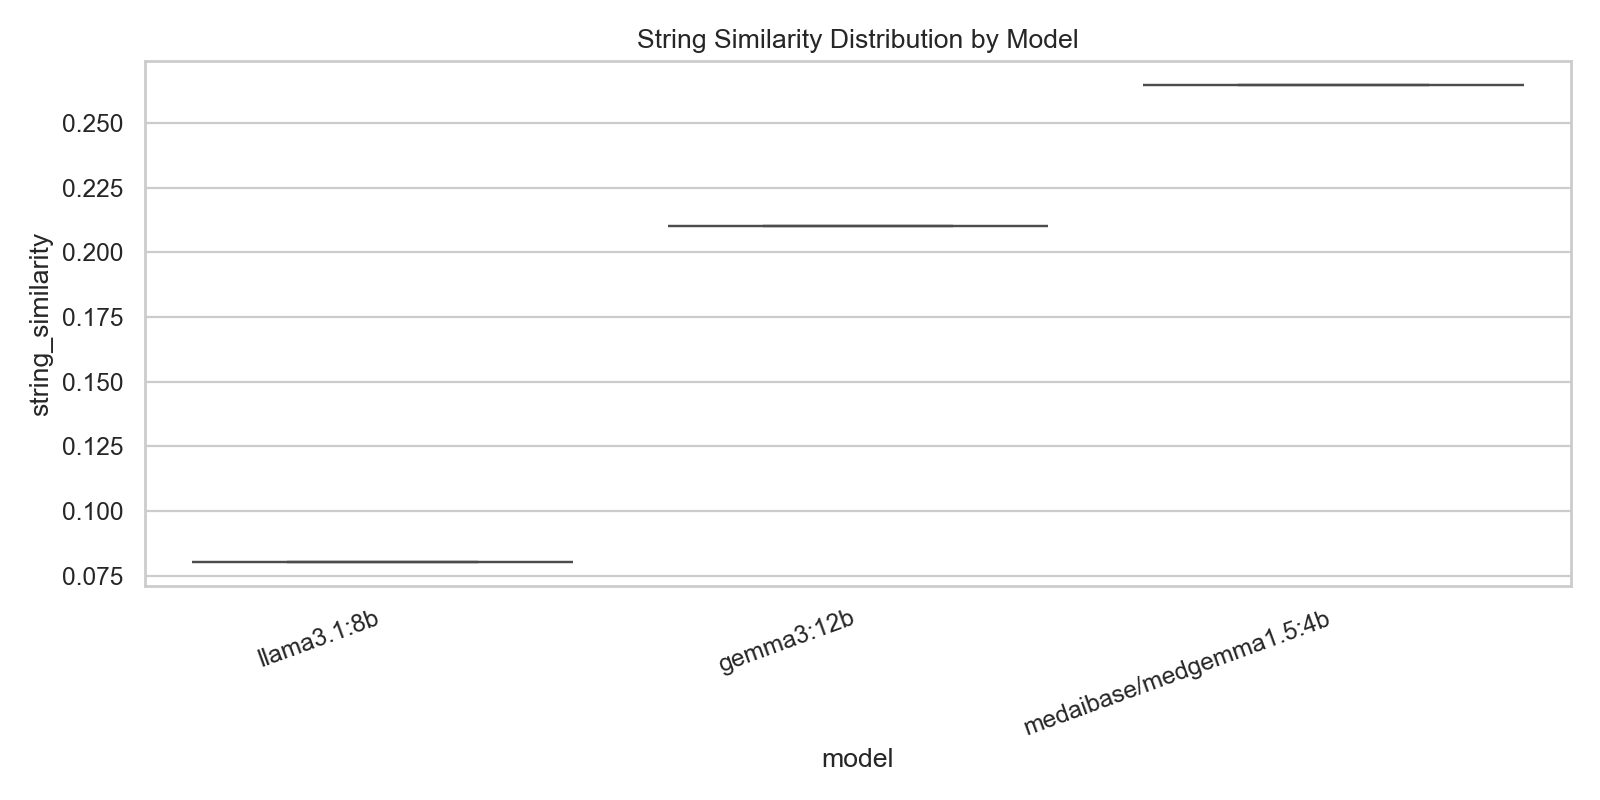
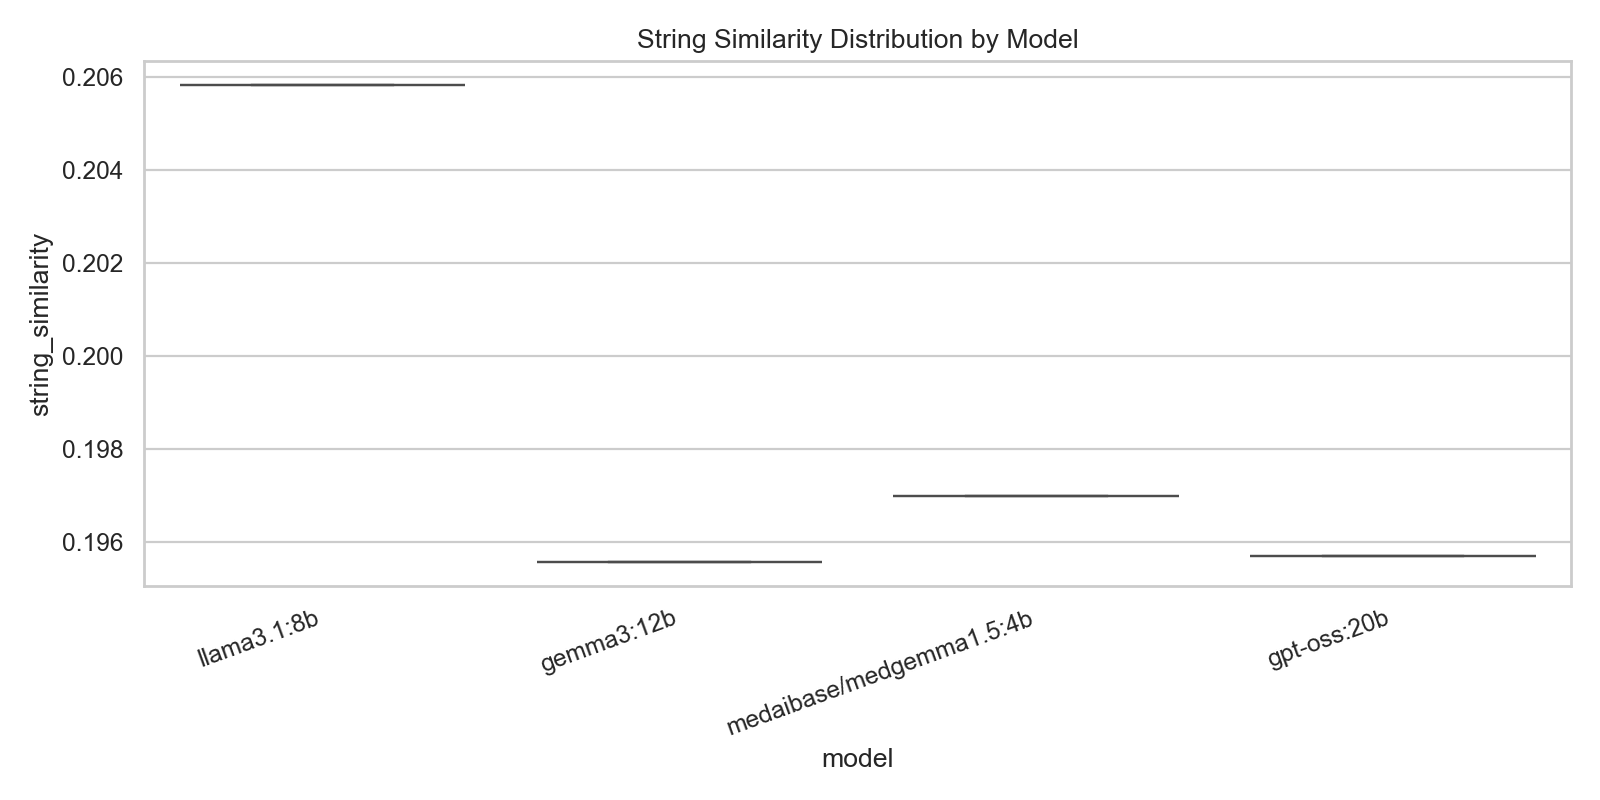
add bleu, rough and bertscore

diff --git a/src/clinical_eval_pipeline/scoring/deterministic.py b/src/clinical_eval_pipeline/scoring/deterministic.py
@@ -40,7 +40,53 @@ def token_f1(prediction: str, gold: str) -> float:
     return (2 * precision * recall) / (precision + recall)
 
 
-def score_deterministic(df: pd.DataFrame) -> pd.DataFrame:
+def _bleu_score(normalized_pred: str, normalized_gold: str) -> float:
+    from nltk.translate.bleu_score import SmoothingFunction, sentence_bleu
+
+    pred_tokens = normalized_pred.split()
+    gold_tokens = normalized_gold.split()
+    if not pred_tokens or not gold_tokens:
+        return 0.0
+    smoother = SmoothingFunction().method1
+    return float(sentence_bleu([gold_tokens], pred_tokens, smoothing_function=smoother))
+
+
+def _rouge_l_f1(normalized_pred: str, normalized_gold: str) -> float:
+    from rouge_score import rouge_scorer
+
+    scorer = rouge_scorer.RougeScorer(["rougeL"], use_stemmer=False)
+    score = scorer.score(normalized_gold, normalized_pred)["rougeL"]
+    return float(score.fmeasure)
+
+
+def _bert_scores(
+    predictions: list[str],
+    references: list[str],
+    model_type: str,
+    batch_size: int,
+) -> tuple[list[float], list[float], list[float]]:
+    from bert_score import score as bertscore_score
+
+    p_tensor, r_tensor, f1_tensor = bertscore_score(
+        predictions,
+        references,
+        model_type=model_type,
+        lang="en",
+        verbose=False,
+        batch_size=batch_size,
+    )
+    return (
+        [float(x) for x in p_tensor.tolist()],
+        [float(x) for x in r_tensor.tolist()],
+        [float(x) for x in f1_tensor.tolist()],
+    )
+
+
+def score_deterministic(
+    df: pd.DataFrame,
+    bertscore_model: str = "roberta-base",
+    bertscore_batch_size: int = 8,
+) -> pd.DataFrame:
     out = df.copy()
     out["normalized_response"] = out["response_text"].astype(str).map(normalize_text)
     out["normalized_gold"] = out["gold_answer"].astype(str).map(normalize_text)
@@ -54,4 +100,22 @@ def score_deterministic(df: pd.DataFrame) -> pd.DataFrame:
         SequenceMatcher(None, pred, gold).ratio()
         for pred, gold in zip(out["normalized_response"], out["normalized_gold"], strict=True)
     ]
+    out["bleu"] = [
+        _bleu_score(pred, gold)
+        for pred, gold in zip(out["normalized_response"], out["normalized_gold"], strict=True)
+    ]
+    out["rouge_l"] = [
+        _rouge_l_f1(pred, gold)
+        for pred, gold in zip(out["normalized_response"], out["normalized_gold"], strict=True)
+    ]
+
+    bert_p, bert_r, bert_f1 = _bert_scores(
+        out["response_text"].astype(str).tolist(),
+        out["gold_answer"].astype(str).tolist(),
+        model_type=bertscore_model,
+        batch_size=bertscore_batch_size,
+    )
+    out["bertscore_precision"] = bert_p
+    out["bertscore_recall"] = bert_r
+    out["bertscore_f1"] = bert_f1
     return out

diff --git a/src/clinical_eval_pipeline/scoring/llm_judge.py b/src/clinical_eval_pipeline/scoring/llm_judge.py
@@ -10,10 +10,16 @@ from clinical_eval_pipeline.ollama_client import OllamaClient
 
 def _extract_score(text: str) -> float | None:
     match = re.search(r"score\s*=\s*([0-9]*\.?[0-9]+)", text.lower())
-    if not match:
-        return None
-    score = float(match.group(1))
-    return max(0.0, min(1.0, score))
+    if match:
+        score = float(match.group(1))
+        return max(0.0, min(1.0, score))
+
+    # Fallback: take first standalone float between 0 and 1 from the judge output.
+    fallback = re.search(r"\b(0(?:\.\d+)?|1(?:\.0+)?)\b", text.lower())
+    if fallback:
+        score = float(fallback.group(1))
+        return max(0.0, min(1.0, score))
+    return None
 
 
 def apply_llm_judge(scored_df: pd.DataFrame, config: PipelineConfig) -> pd.DataFrame:
@@ -31,6 +37,7 @@ def apply_llm_judge(scored_df: pd.DataFrame, config: PipelineConfig) -> pd.DataF
     out = scored_df.copy()
     judge_scores: list[float | None] = []
     judge_rationales: list[str] = []
+    parse_failures = 0
 
     for _, row in out.iterrows():
         judge_prompt = (
@@ -41,9 +48,23 @@ def apply_llm_judge(scored_df: pd.DataFrame, config: PipelineConfig) -> pd.DataF
         )
         result = client.generate(model=judge_cfg.model, prompt=judge_prompt)
         judge_text = str(result.get("response", "")).strip()
-        judge_scores.append(_extract_score(judge_text))
+        parsed = _extract_score(judge_text)
+        if parsed is None:
+            parse_failures += 1
+            snippet = judge_text.replace("\n", " ")[:220]
+            print(
+                f"[judge][warn] could not parse score for model={row['model']} "
+                f"question_id={row['question_id']} output='{snippet}'",
+                flush=True,
+            )
+        judge_scores.append(parsed)
         judge_rationales.append(judge_text)
 
     out["judge_score"] = judge_scores
     out["judge_rationale"] = judge_rationales
+    print(
+        f"[judge] completed rows={len(out)} parsed_scores={len(out) - parse_failures} "
+        f"parse_failures={parse_failures}",
+        flush=True,
+    )
     return out

diff --git a/src/clinical_eval_pipeline/cli.py b/src/clinical_eval_pipeline/cli.py
@@ -108,7 +108,11 @@ def score(
         typer.echo("[score] loading raw outputs")
         raw_df, out_dir = _read_raw(config_path)
         typer.echo(f"[score] loaded {len(raw_df)} raw rows")
-        deterministic_df = score_deterministic(raw_df)
+        deterministic_df = score_deterministic(
+            raw_df,
+            bertscore_model=config.bertscore_model,
+            bertscore_batch_size=config.bertscore_batch_size,
+        )
         typer.echo("[score] normalization + deterministic scoring complete")
         scored_df = apply_llm_judge(deterministic_df, config)
         typer.echo("[score] llm-judge pass complete")
@@ -175,7 +179,11 @@ def run_all(
             typer.echo("[all] resume enabled: found scored outputs, skipping score phase")
             scored_df = _read_scored(out_dir)
         else:
-            deterministic_df = score_deterministic(raw_df)
+            deterministic_df = score_deterministic(
+                raw_df,
+                bertscore_model=config.bertscore_model,
+                bertscore_batch_size=config.bertscore_batch_size,
+            )
             typer.echo("[all] normalization + deterministic scoring complete")
             scored_df = apply_llm_judge(deterministic_df, config)
             out_path_parquet = out_dir / "scored_responses.parquet"

diff --git a/src/clinical_eval_pipeline/ollama_client.py b/src/clinical_eval_pipeline/ollama_client.py
@@ -8,6 +8,10 @@ import requests
 from clinical_eval_pipeline.config import GenerationConfig
 
 
+class OllamaRequestError(RuntimeError):
+    """Structured error for failed Ollama generate requests."""
+
+
 class OllamaClient:
     def __init__(self, base_url: str, generation_config: GenerationConfig) -> None:
         self.base_url = base_url.rstrip("/")
@@ -58,9 +62,18 @@ class OllamaClient:
                 return data
             except Exception as exc:  # broad on purpose for retry safety
                 last_error = exc
+                print(
+                    f"[ollama][warn] attempt={attempt + 1}/{retries + 1} model={model} "
+                    f"failed: {exc}",
+                    flush=True,
+                )
                 if attempt < retries:
                     time.sleep(1.5 * (attempt + 1))
                     continue
                 break
 
-        raise RuntimeError(f"Ollama request failed after retries: {last_error}") from last_error
+        prompt_preview = prompt.strip().replace("\n", " ")[:160]
+        raise OllamaRequestError(
+            f"Ollama request failed after retries model={model} url={url} "
+            f"prompt_preview='{prompt_preview}' last_error={last_error}"
+        ) from last_error

diff --git a/src/clinical_eval_pipeline/reporting.py b/src/clinical_eval_pipeline/reporting.py
@@ -60,10 +60,17 @@ def write_markdown_report(
     out_dir.mkdir(parents=True, exist_ok=True)
     report_path = out_dir / "report.md"
 
-    model_summary = (
-        scored_df.groupby("model", dropna=False)[["token_f1", "string_similarity", "exact_match"]]
-        .mean()
-        .sort_values("token_f1", ascending=False)
+    summary_cols = [
+        "token_f1",
+        "string_similarity",
+        "exact_match",
+        "bleu",
+        "rouge_l",
+        "bertscore_f1",
+    ]
+    summary_cols = [c for c in summary_cols if c in scored_df.columns]
+    model_summary = scored_df.groupby("model", dropna=False)[summary_cols].mean().sort_values(
+        "token_f1", ascending=False
     )
     top_rows = aggregate_df.sort_values("token_f1_mean", ascending=False).head(10)
 

diff --git a/src/clinical_eval_pipeline/aggregate.py b/src/clinical_eval_pipeline/aggregate.py
@@ -25,7 +25,18 @@ def compute_aggregates(scored_df: pd.DataFrame) -> pd.DataFrame:
         / df.groupby(["model", "question_id"])["normalized_response"].transform("size")
     )
 
-    metrics = ["exact_match", "normalized_exact_match", "token_f1", "string_similarity"]
+    metrics = [
+        "exact_match",
+        "normalized_exact_match",
+        "token_f1",
+        "string_similarity",
+        "bleu",
+        "rouge_l",
+        "bertscore_precision",
+        "bertscore_recall",
+        "bertscore_f1",
+    ]
+    metrics = [m for m in metrics if m in df.columns]
     if "judge_score" in df.columns:
         metrics.append("judge_score")
 

diff --git a/src/clinical_eval_pipeline/config.py b/src/clinical_eval_pipeline/config.py
@@ -50,6 +50,8 @@ class PipelineConfig(BaseModel):
     deterministic_mode: bool = True
     verbose: bool = True
     resume: bool = False
+    bertscore_model: str = "roberta-base"
+    bertscore_batch_size: int = Field(default=8, ge=1)
     random_seed: int | None = None
     report_format: Literal["markdown"] = "markdown"
 

diff --git a/outputs/report.md b/outputs/report.md
@@ -4,17 +4,19 @@
 
 | model                    |   token_f1 |   string_similarity |   exact_match |
 |:-------------------------|-----------:|--------------------:|--------------:|
-| medaibase/medgemma1.5:4b |      0.400 |               0.265 |         0.000 |
-| llama3.1:8b              |      0.325 |               0.080 |         0.000 |
-| gemma3:12b               |      0.311 |               0.210 |         0.000 |
+| gemma3:12b               |      0.400 |               0.196 |         0.000 |
+| medaibase/medgemma1.5:4b |      0.400 |               0.197 |         0.000 |
+| llama3.1:8b              |      0.378 |               0.206 |         0.000 |
+| gpt-oss:20b              |      0.306 |               0.196 |         0.000 |
 
 ## Top Model/Question Results (Token F1 Mean)
 
 | model                    | question_id   |   token_f1_mean |   string_similarity_mean |
 |:-------------------------|:--------------|----------------:|-------------------------:|
-| medaibase/medgemma1.5:4b | q1            |           0.400 |                    0.265 |
-| llama3.1:8b              | q1            |           0.325 |                    0.080 |
-| gemma3:12b               | q1            |           0.311 |                    0.210 |
+| gemma3:12b               | q1            |           0.400 |                    0.196 |
+| medaibase/medgemma1.5:4b | q1            |           0.400 |                    0.197 |
+| llama3.1:8b              | q1            |           0.378 |                    0.206 |
+| gpt-oss:20b              | q1            |           0.306 |                    0.196 |
 
 ## Notes
 - This report aggregates repeated runs for reproducibility analysis.

diff --git a/README.md b/README.md
@@ -7,6 +7,7 @@ Evaluate multiple Ollama-hosted text models on repeated short clinical prompts, 
 - Runs the same prompt many times per model (`models x prompts x runs_per_prompt`).
 - Stores all raw outputs for traceability.
 - Scores outputs with deterministic metrics (exact match, normalized exact match, token F1, similarity).
+- Adds lexical/semantic metrics: BLEU, ROUGE-L, and BERTScore (RoBERTa-based).
 - Applies text normalization (lowercase, remove punctuation/non-letters, collapse spaces) before normalized comparisons.
 - Optionally applies an LLM judge rubric (also through Ollama).
 - Produces aggregates, figures, and a Markdown report.
@@ -61,6 +62,8 @@ Edit `configs/pipeline.yaml`:
 - Optional per-model override: `runs_per_prompt` under each model entry.
 - `judge.enabled`: enable hybrid scoring with LLM-as-judge.
 - `resume`: when `true`, skip already completed stages if artifacts exist.
+- `bertscore_model`: transformer model used by BERTScore (default `roberta-base`).
+- `bertscore_batch_size`: batch size for BERTScore calculation.
 
 Prompting behavior:
 
